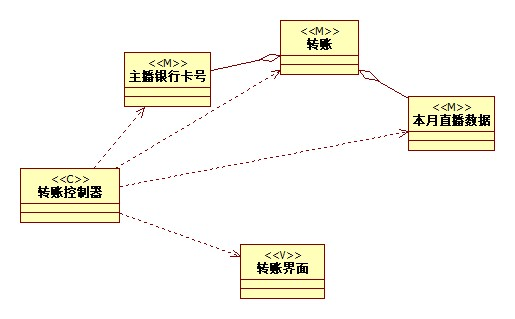
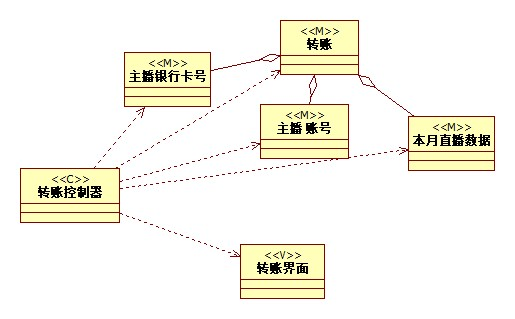
修改后的实验4实验5

diff --git a/students/1714080901130/lab2.md b/students/1714080901130/lab2.md
@@ -36,10 +36,10 @@
 用例编号  | UC01 | 备注  
 -|:-|-  
 用例名称  | 查封主播直播间  |   
-前置条件  | 管理员收到观众举报直播内容非法     | *可选*   
+前置条件  | 主播账号成功登陆,管理员收到观众举报直播内容非法     | *可选*   
 后置条件  | 管理员成功登陆管理系统     | *可选*   
 基本流程  | 1. 管理启动系统查封功能；  |*用例执行成功的步骤*    
-~| 2. 系统检测直播主播内容；  |   
+~| 2. 系统通过主播账号检测主播直播内容；  |   
 ~| 3. 系统开放直播间；  |   
   
 扩展流程  | 2.1 系统发现主播直播内容非法，封掉直播间，**提示“非法直播”**；  |*用例执行失败*  
@@ -50,8 +50,8 @@
 用例编号  | UC02 | 备注  
 -|:-|-  
 用例名称  | 结算主播工资  |   
-前置条件  |                        | *可选*   
-后置条件  |                        | *可选*   
+前置条件  |   主播账号成功登陆     | *可选*   
+后置条件  |                      | *可选*   
 基本流程  | 1. 主播点击工资结算按钮；  |*用例执行成功的步骤*    
 ~| 2. 系统根据本月成果（礼物量，订阅数）显示工资数目；  |   
 ~| 3. 主播核对后，点击确认按钮；  |   
